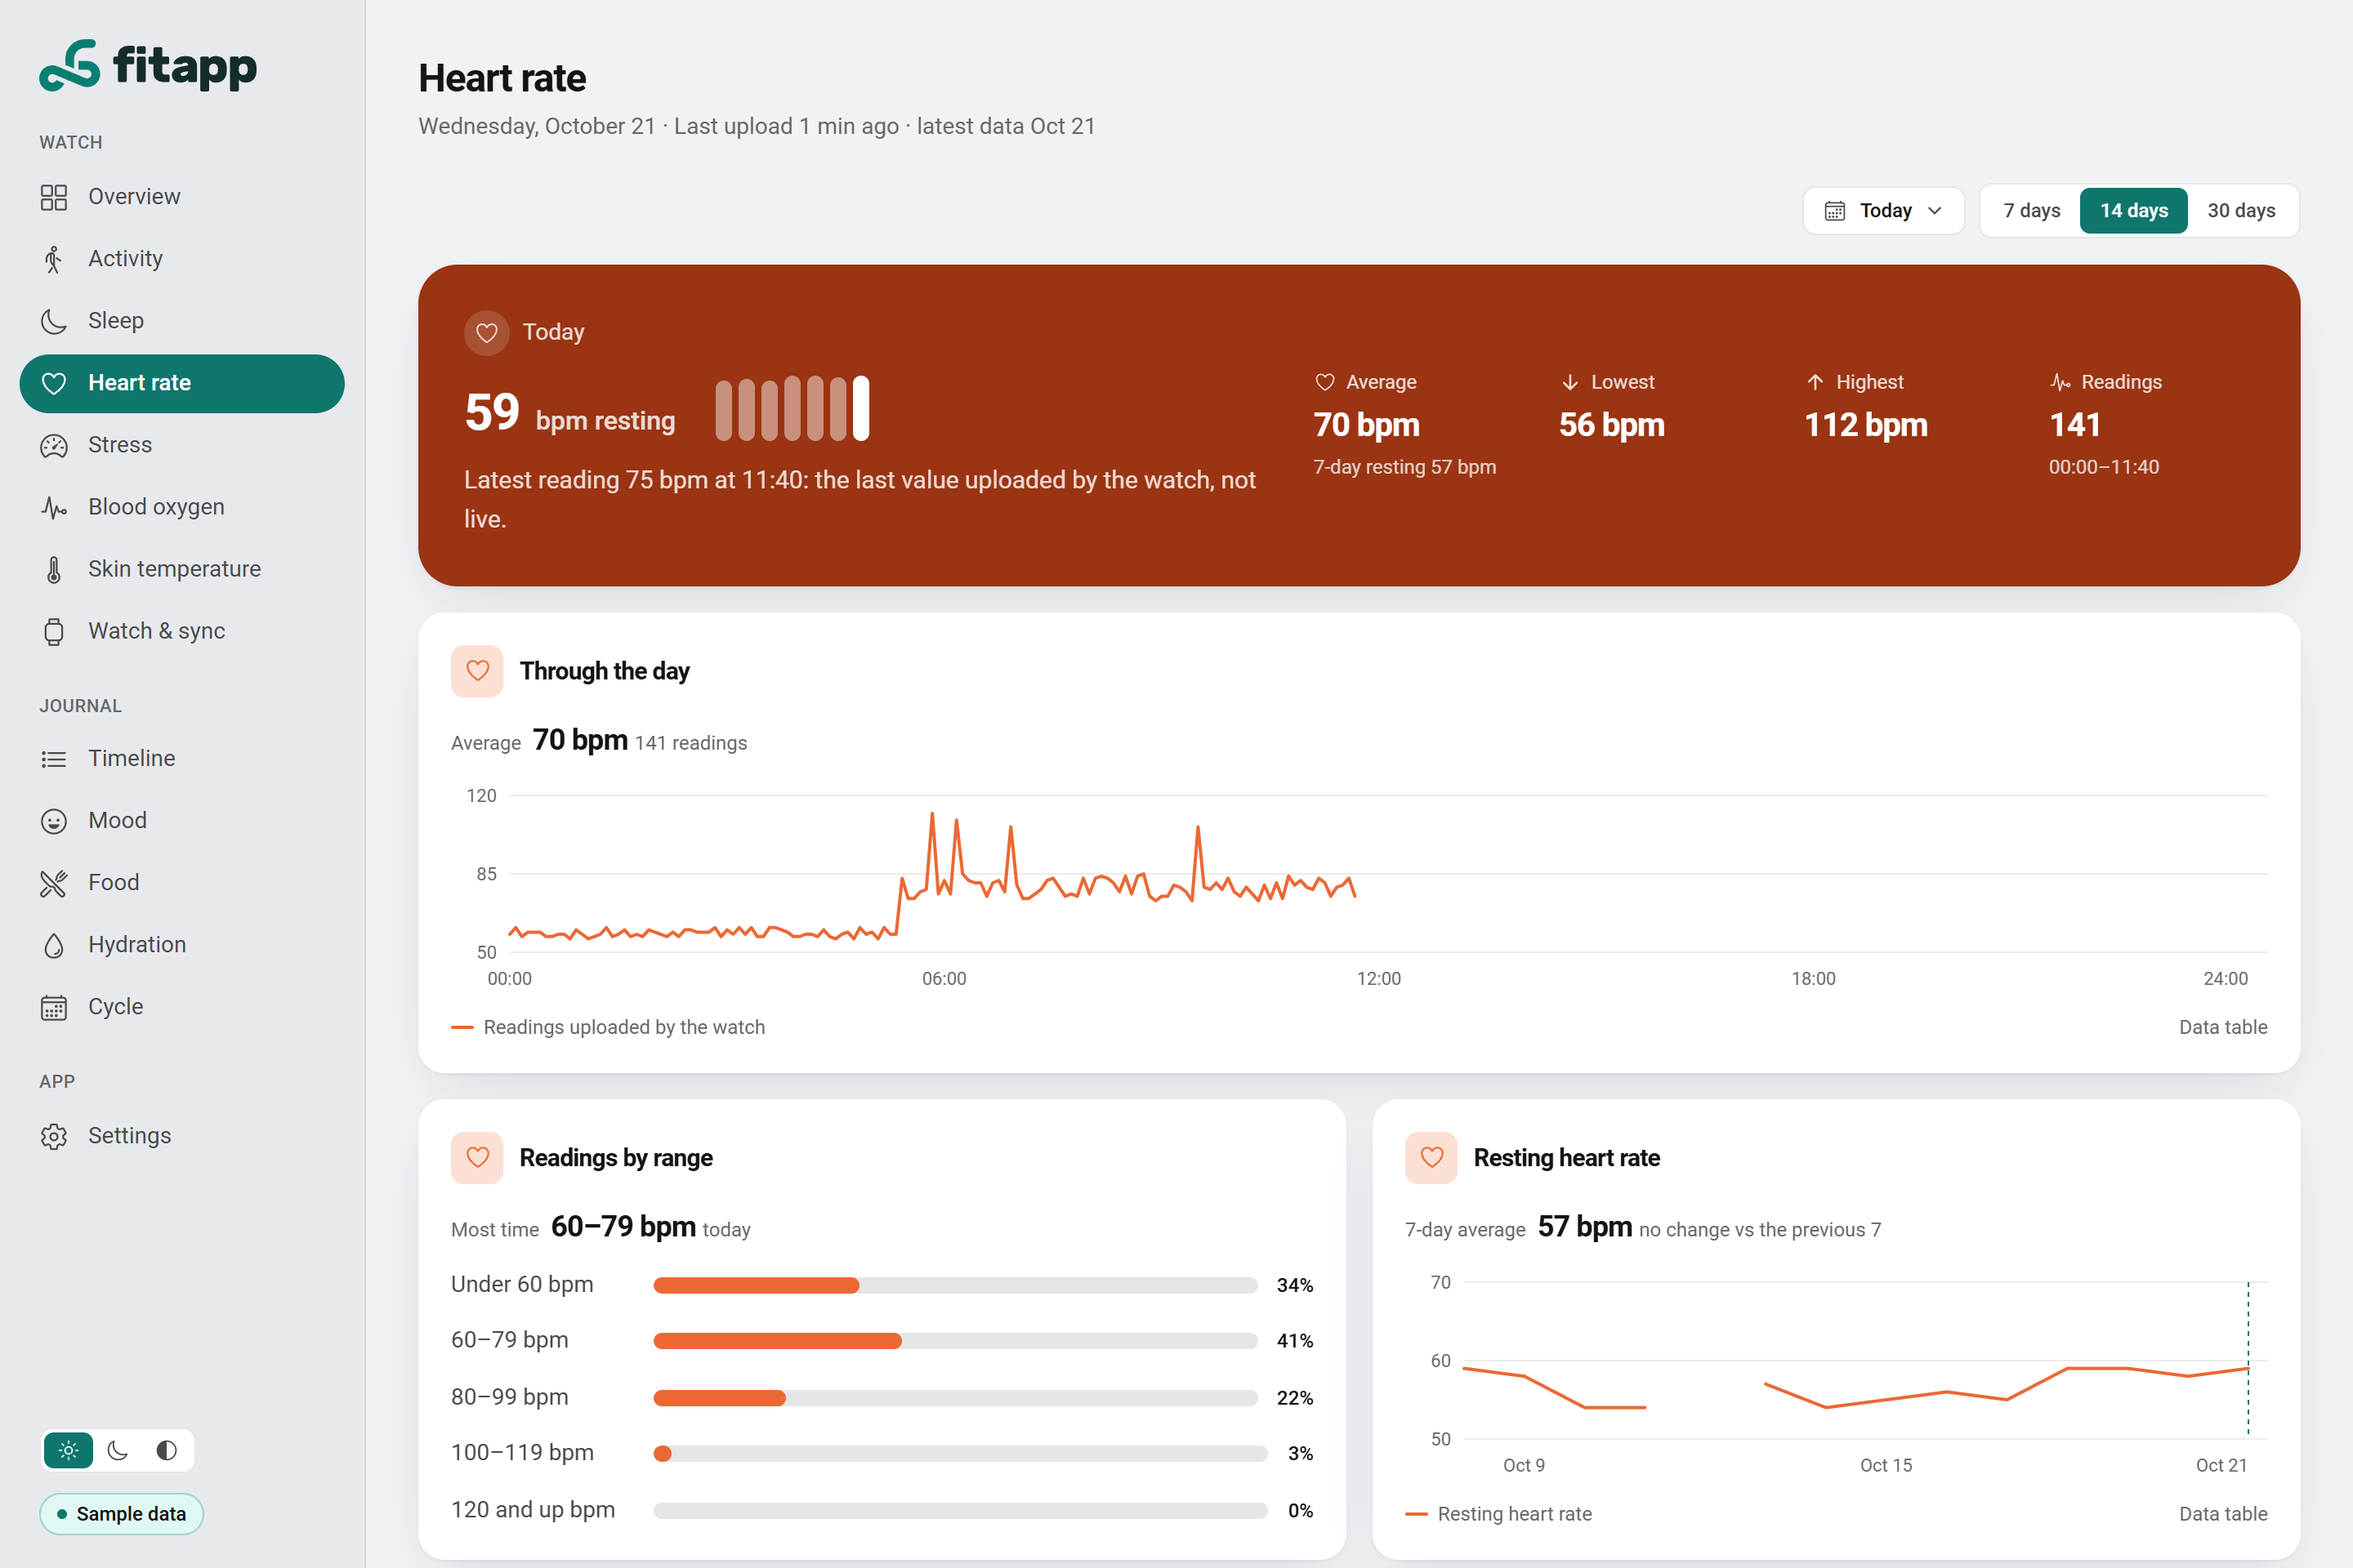
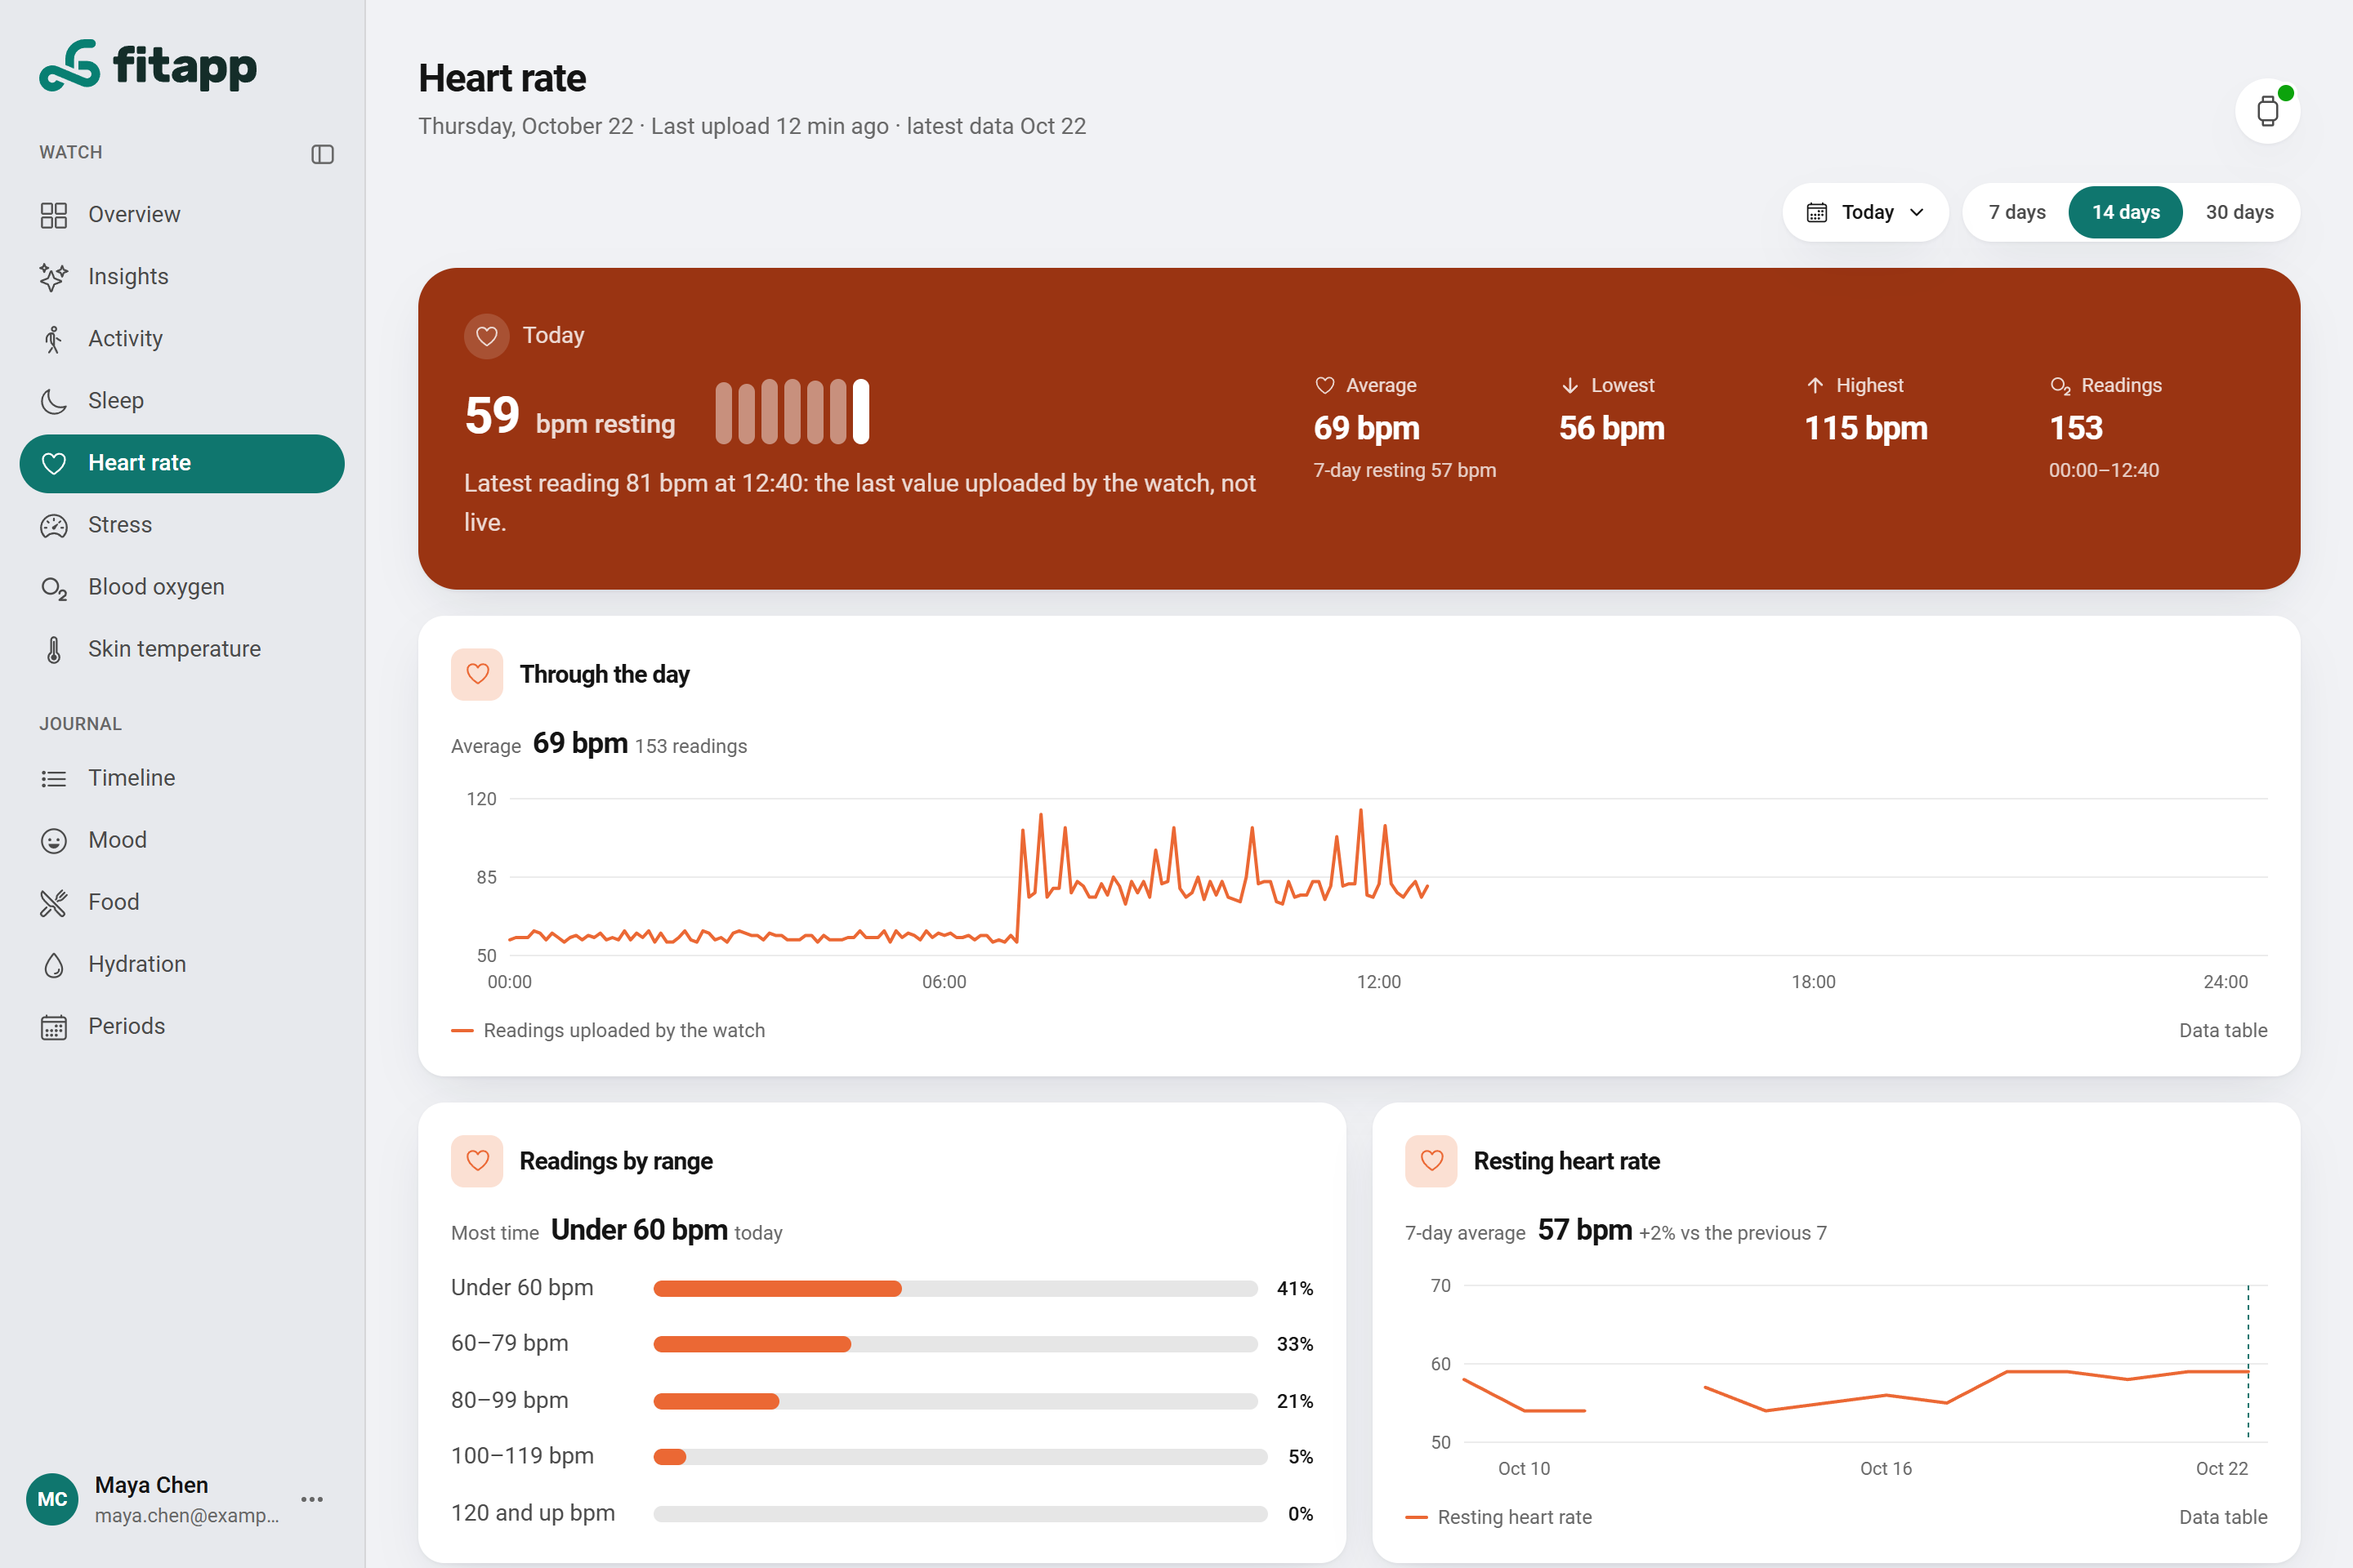
Sidebar collapse button beside WATCH; fresh web screenshots
- The collapse button moves from the logo row to the first section label,
  and stays in that spot when the sidebar is collapsed
- Web dashboard screenshots retaken with the current design (1440x960 at
  2x), plus Insights; the README gallery adds Insights and Watch & sync and
  names the Periods page

diff --git a/frontend-fitapp/src/components/AppShell.vue b/frontend-fitapp/src/components/AppShell.vue
@@ -7,28 +7,32 @@
           class="sticky top-0 z-20 hidden h-dvh shrink-0 flex-col border-r border-line-strong/70 bg-rail py-5 motion-safe:transition-[width] motion-safe:duration-200 lg:flex"
           :class="collapsed ? 'w-[4.5rem] px-3' : 'w-56 px-3'"
         >
-          <div class="mb-6 flex items-center pt-1" :class="collapsed ? 'flex-col gap-3' : 'justify-between pl-3'">
+          <div class="mb-6 flex pt-1" :class="collapsed ? 'justify-center' : 'pl-3'">
             <RouterLink to="/overview" class="flex" aria-label="FitApp overview">
               <BrandLogo :symbol="collapsed" class="h-8" />
             </RouterLink>
-            <button
-              type="button"
-              class="grid size-8 place-items-center rounded-lg text-muted transition-colors duration-150 hover:bg-surface hover:text-ink"
-              aria-controls="sidebar"
-              :aria-expanded="!collapsed"
-              :aria-label="collapsed ? 'Expand sidebar' : 'Collapse sidebar'"
-              :title="collapsed ? 'Expand sidebar' : 'Collapse sidebar'"
-              @click="toggleSidebar"
-            >
-              <svg viewBox="0 0 20 20" class="size-[18px]" fill="none" stroke="currentColor" stroke-width="1.5" aria-hidden="true">
-                <rect x="2.75" y="3.75" width="14.5" height="12.5" rx="2.5" />
-                <path d="M7.75 4v12" />
-              </svg>
-            </button>
           </div>
           <nav aria-label="Sections" class="-mx-3 flex min-h-0 flex-1 flex-col gap-5 overflow-x-hidden overflow-y-auto px-3">
-            <div v-for="group in groups" :key="group.label" class="flex flex-col gap-0.5">
-              <p v-if="!collapsed" class="px-3 pb-1 text-[11px] font-medium uppercase tracking-wide whitespace-nowrap text-muted">{{ group.label }}</p>
+            <div v-for="(group, i) in groups" :key="group.label" class="flex flex-col gap-0.5">
+              <!-- The first group's label row also holds the collapse button; collapsed, the button stays there alone. -->
+              <div v-if="!collapsed || i === 0" class="flex items-center pb-1" :class="collapsed ? 'justify-center' : 'justify-between pl-3'">
+                <p v-if="!collapsed" class="text-[11px] font-medium uppercase tracking-wide whitespace-nowrap text-muted">{{ group.label }}</p>
+                <button
+                  v-if="i === 0"
+                  type="button"
+                  class="grid size-7 place-items-center rounded-lg text-muted transition-colors duration-150 hover:bg-surface hover:text-ink"
+                  aria-controls="sidebar"
+                  :aria-expanded="!collapsed"
+                  :aria-label="collapsed ? 'Expand sidebar' : 'Collapse sidebar'"
+                  :title="collapsed ? 'Expand sidebar' : 'Collapse sidebar'"
+                  @click="toggleSidebar"
+                >
+                  <svg viewBox="0 0 20 20" class="size-[17px]" fill="none" stroke="currentColor" stroke-width="1.5" aria-hidden="true">
+                    <rect x="2.75" y="3.75" width="14.5" height="12.5" rx="2.5" />
+                    <path d="M7.75 4v12" />
+                  </svg>
+                </button>
+              </div>
               <NavButton v-for="item in group.items" :key="item.to" :to="item.to" :label="item.label" :icon="item.icon" variant="rail" :collapsed="collapsed" />
             </div>
           </nav>

diff --git a/README.md b/README.md
@@ -47,10 +47,11 @@ FitApp brings the activity, sleep and heart-rate data recorded by a wearable tog
 
 | | | |
 | --- | --- | --- |
-| ![Overview, dark](docs/screenshots/desktop-overview-dark.png) | ![Activity](docs/screenshots/desktop-activity.png) | ![Sleep](docs/screenshots/desktop-sleep.png) |
-| ![Hydration](docs/screenshots/desktop-hydration.png) | ![Heart rate](docs/screenshots/desktop-heart-rate.png) | ![Timeline](docs/screenshots/desktop-timeline.png) |
-| ![Stress](docs/screenshots/desktop-stress.png) | ![Blood oxygen](docs/screenshots/desktop-blood-oxygen.png) | ![Skin temperature](docs/screenshots/desktop-skin-temperature.png) |
-| ![Mood](docs/screenshots/desktop-mood.png) | ![Food](docs/screenshots/desktop-food.png) | ![Cycle](docs/screenshots/desktop-cycle.png) |
+| ![Insights with the health score](docs/screenshots/desktop-insights.png) | ![Overview, dark](docs/screenshots/desktop-overview-dark.png) | ![Activity](docs/screenshots/desktop-activity.png) |
+| ![Sleep](docs/screenshots/desktop-sleep.png) | ![Heart rate](docs/screenshots/desktop-heart-rate.png) | ![Stress](docs/screenshots/desktop-stress.png) |
+| ![Blood oxygen](docs/screenshots/desktop-blood-oxygen.png) | ![Skin temperature](docs/screenshots/desktop-skin-temperature.png) | ![Timeline](docs/screenshots/desktop-timeline.png) |
+| ![Mood](docs/screenshots/desktop-mood.png) | ![Food](docs/screenshots/desktop-food.png) | ![Hydration](docs/screenshots/desktop-hydration.png) |
+| ![Periods](docs/screenshots/desktop-cycle.png) | ![Watch & sync](docs/screenshots/desktop-device.png) | |
 
 Every screen and component, in light and dark: **[the screenshots branch](https://github.com/tanximsiam/fitapp/tree/screenshots/docs/screenshots)**.
 
